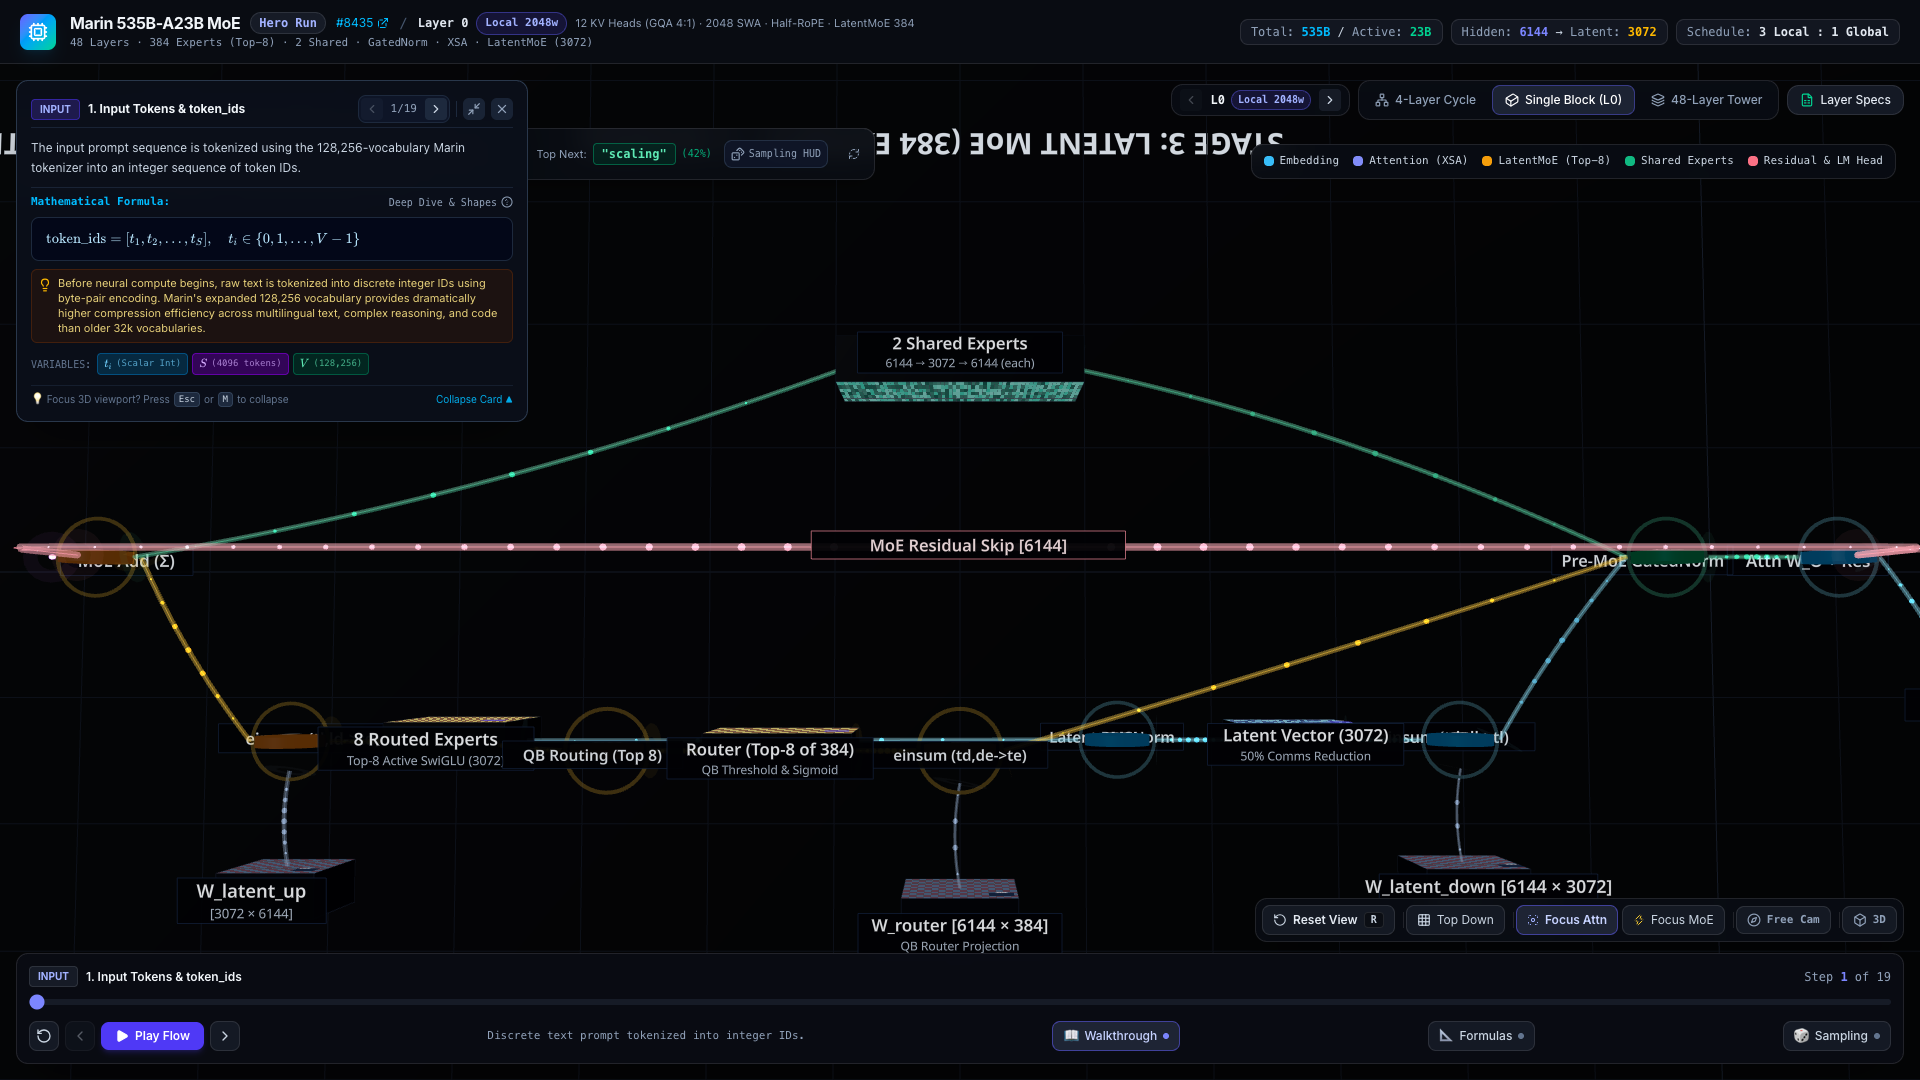
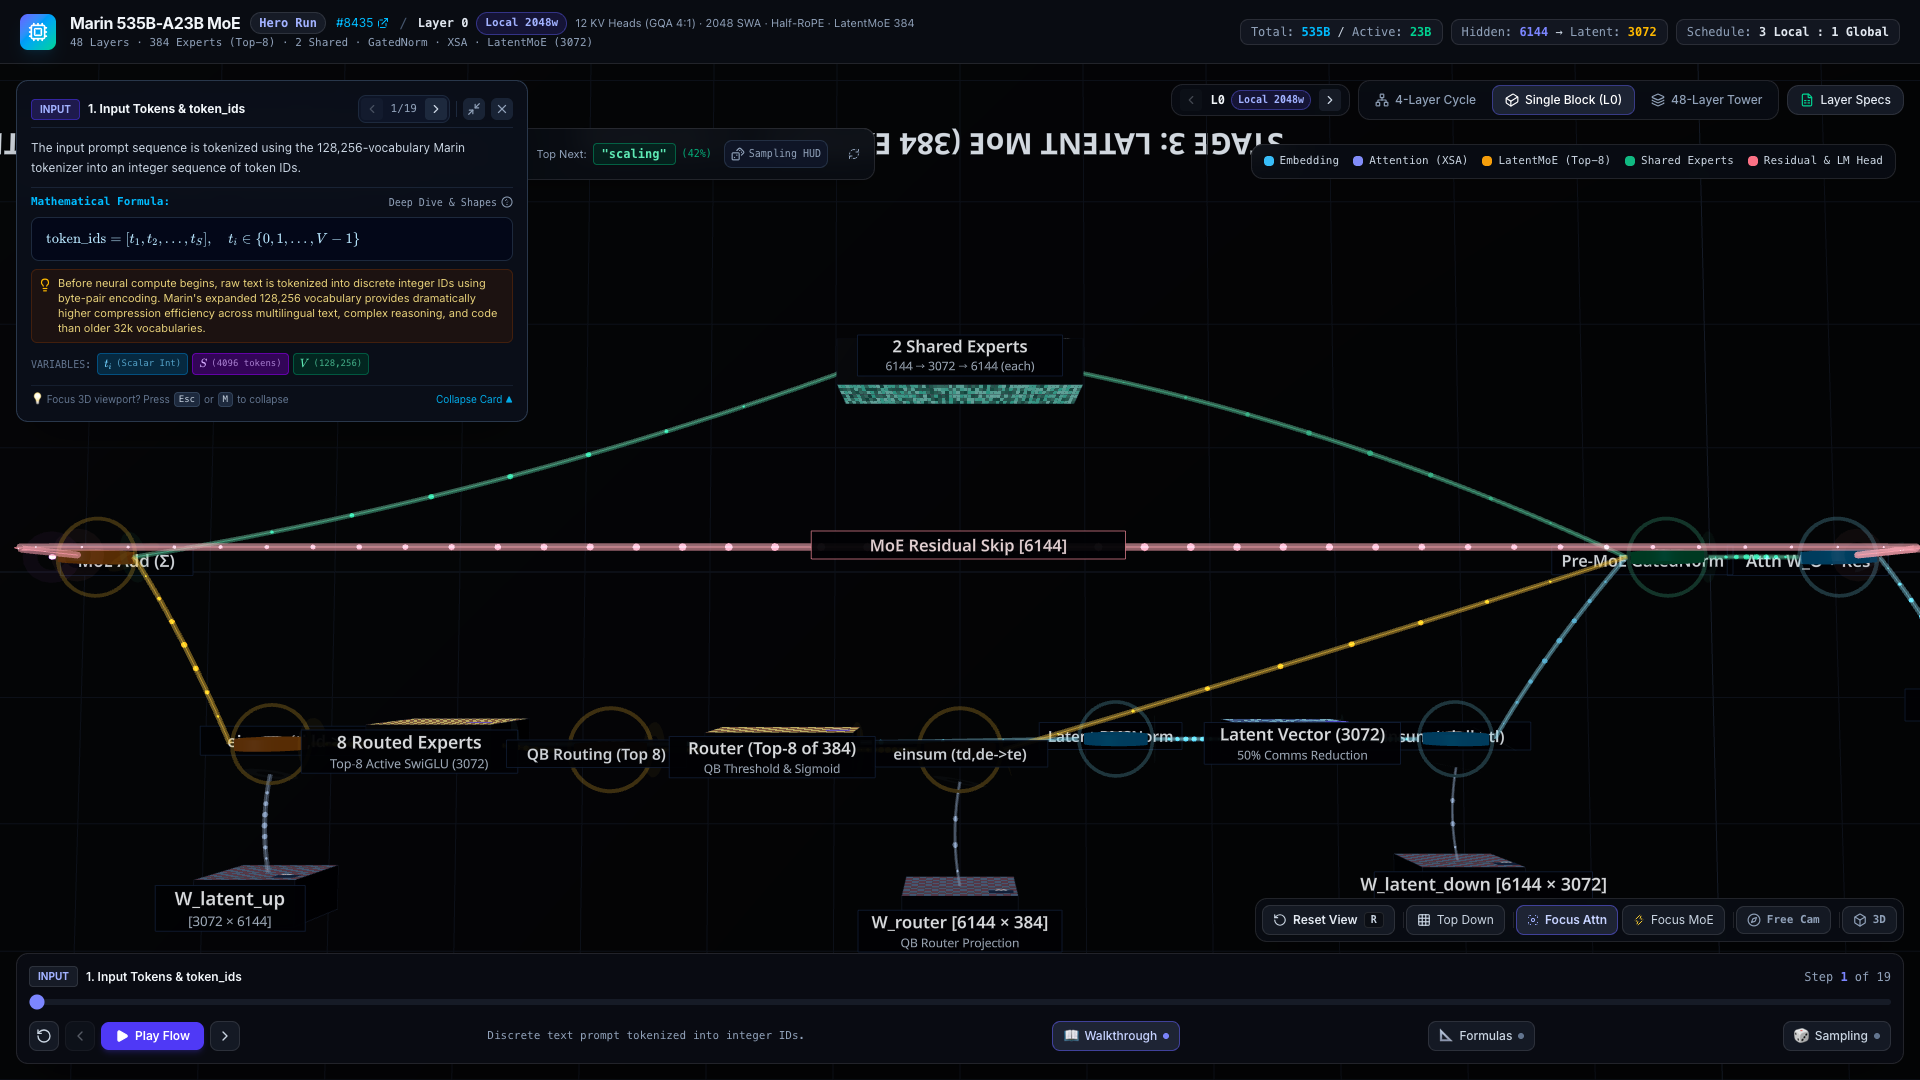
refactor: apply Plan A classic mirror-symmetric MoE layout

diff --git a/src/components/ThreeScene/MicroBlockView.tsx b/src/components/ThreeScene/MicroBlockView.tsx
@@ -690,7 +690,7 @@ export const MicroBlockView: React.FC<MicroBlockViewProps> = ({
       {/* Token to op_router_proj */}
       <FlowConnection
         from={[16.05, 2.0, 0]}
-        to={[24.45, 3.4, -2.5]}
+        to={[24.45, 3.2, -2.5]}
         color="#f59e0b"
         isHighlighted={isFlowActive(isStep('router_qb_selection'), ['op_moe_gn', 'op_router_proj'])}
         label="Token [6144]"
@@ -701,7 +701,7 @@ export const MicroBlockView: React.FC<MicroBlockViewProps> = ({
         id="node_w_router"
         label="W_router [6144 × 384]"
         subLabel="QB Router Projection"
-        position={[25.0, 3.4, -4.5]}
+        position={[25.0, 3.2, -4.5]}
         size={[1.4, 1.6, 0.6]}
         gridRows={12}
         gridCols={16}
@@ -716,8 +716,8 @@ export const MicroBlockView: React.FC<MicroBlockViewProps> = ({
 
       {/* W_router -> op_router_proj */}
       <FlowConnection
-        from={[25.0, 3.4, -4.2]}
-        to={[25.0, 3.4, -2.9]}
+        from={[25.0, 3.2, -4.2]}
+        to={[25.0, 3.2, -2.9]}
         color="#64748b"
         tubeRadius={0.02}
         particleCount={4}
@@ -730,7 +730,7 @@ export const MicroBlockView: React.FC<MicroBlockViewProps> = ({
         id="op_router_proj"
         name="einsum (td,de->te)"
         symbol="@"
-        position={[25.0, 3.4, -2.5]}
+        position={[25.0, 3.2, -2.5]}
         color="#f59e0b"
         isHighlighted={isHighlighted('op_router_proj') || isHighlighted('node_w_router')}
         onHover={onHoverItem}
@@ -740,8 +740,8 @@ export const MicroBlockView: React.FC<MicroBlockViewProps> = ({
 
       {/* op_router_proj -> node_router */}
       <FlowConnection
-        from={[25.55, 3.4, -2.5]}
-        to={[26.3, 3.4, -2.5]}
+        from={[25.55, 3.2, -2.5]}
+        to={[26.3, 3.2, -2.5]}
         color="#f59e0b"
         isHighlighted={isFlowActive(isStep('router_qb_selection'), ['op_router_proj', 'node_router'])}
         label="Logits [384]"
@@ -752,7 +752,7 @@ export const MicroBlockView: React.FC<MicroBlockViewProps> = ({
         id="node_router"
         label="Router (Top-8 of 384)"
         subLabel="QB Threshold & Sigmoid"
-        position={[27.2, 3.4, -2.5]}
+        position={[27.2, 3.2, -2.5]}
         size={[1.8, 1.4, 0.5]}
         gridRows={activationData.tokens.length}
         gridCols={16}
@@ -766,8 +766,8 @@ export const MicroBlockView: React.FC<MicroBlockViewProps> = ({
 
       {/* node_router -> op_router_qb */}
       <FlowConnection
-        from={[28.1, 3.4, -2.5]}
-        to={[28.85, 3.4, -2.5]}
+        from={[28.1, 3.2, -2.5]}
+        to={[28.85, 3.2, -2.5]}
         color="#f59e0b"
         isHighlighted={isFlowActive(isStep('router_qb_selection'), ['node_router', 'op_router_qb'])}
       />
@@ -777,7 +777,7 @@ export const MicroBlockView: React.FC<MicroBlockViewProps> = ({
         id="op_router_qb"
         name="QB Routing (Top 8)"
         symbol="QB"
-        position={[29.4, 3.4, -2.5]}
+        position={[29.4, 3.2, -2.5]}
         color="#f59e0b"
         isHighlighted={isHighlighted('op_router_qb')}
         onHover={onHoverItem}
@@ -790,7 +790,7 @@ export const MicroBlockView: React.FC<MicroBlockViewProps> = ({
         id="node_experts_shared"
         label="2 Shared Experts"
         subLabel="6144 → 3072 → 6144 (each)"
-        position={[25.0, 2.2, 2.5]}
+        position={[25.0, 2.0, 2.5]}
         size={[64 * DIM_W, 1.6, 0.6]}
         gridRows={activationData.tokens.length}
         gridCols={64}
@@ -806,7 +806,7 @@ export const MicroBlockView: React.FC<MicroBlockViewProps> = ({
       {/* Full-Width mlp_in into 2 Shared Experts */}
       <FlowConnection
         from={[16.05, 2.0, 0]}
-        to={[23.4, 2.2, 2.5]}
+        to={[23.4, 2.0, 2.5]}
         color="#10b981"
         isHighlighted={isFlowActive(isStep('shared_experts_swiglu'), ['op_moe_gn', 'node_experts_shared'])}
         label="Full Width [6144]"
@@ -816,7 +816,7 @@ export const MicroBlockView: React.FC<MicroBlockViewProps> = ({
       {/* Branch to Latent Down (Token -> op_latent_proj) */}
       <FlowConnection
         from={[16.05, 2.0, 0]}
-        to={[17.45, 1.0, -2.5]}
+        to={[17.45, 0.8, -2.5]}
         color="#38bdf8"
         isHighlighted={isFlowActive(isStep('latent_compression'), ['op_moe_gn', 'op_latent_proj'])}
         label="Token [6144]"
@@ -827,7 +827,7 @@ export const MicroBlockView: React.FC<MicroBlockViewProps> = ({
         id="node_w_latent_down"
         label="W_latent_down [6144 × 3072]"
         subLabel="Compression Matrix"
-        position={[18.0, 1.0, -4.5]}
+        position={[18.0, 0.8, -4.5]}
         size={[1.4, 1.4, 0.6]}
         gridRows={12}
         gridCols={12}
@@ -842,8 +842,8 @@ export const MicroBlockView: React.FC<MicroBlockViewProps> = ({
 
       {/* W_down -> op_latent_proj */}
       <FlowConnection
-        from={[18.0, 1.0, -4.2]}
-        to={[18.0, 1.0, -2.9]}
+        from={[18.0, 0.8, -4.2]}
+        to={[18.0, 0.8, -2.9]}
         color="#64748b"
         tubeRadius={0.02}
         particleCount={4}
@@ -856,7 +856,7 @@ export const MicroBlockView: React.FC<MicroBlockViewProps> = ({
         id="op_latent_proj"
         name="einsum (td,dl->tl)"
         symbol="@"
-        position={[18.0, 1.0, -2.5]}
+        position={[18.0, 0.8, -2.5]}
         color="#38bdf8"
         isHighlighted={isHighlighted('op_latent_proj') || isHighlighted('node_w_latent_down')}
         onHover={onHoverItem}
@@ -866,8 +866,8 @@ export const MicroBlockView: React.FC<MicroBlockViewProps> = ({
 
       {/* op_latent_proj -> node_latent_down */}
       <FlowConnection
-        from={[18.55, 1.0, -2.5]}
-        to={[19.6, 1.0, -2.5]}
+        from={[18.55, 0.8, -2.5]}
+        to={[19.6, 0.8, -2.5]}
         color="#38bdf8"
         isHighlighted={isFlowActive(isStep('latent_compression'), ['op_latent_proj', 'node_latent_down'])}
         label="Latent [3072]"
@@ -878,7 +878,7 @@ export const MicroBlockView: React.FC<MicroBlockViewProps> = ({
         id="node_latent_down"
         label="Latent Vector (3072)"
         subLabel="50% Comms Reduction"
-        position={[20.4, 1.0, -2.5]}
+        position={[20.4, 0.8, -2.5]}
         size={[32 * DIM_W, 1.4, 0.5]}
         gridRows={activationData.tokens.length}
         gridCols={32}
@@ -893,8 +893,8 @@ export const MicroBlockView: React.FC<MicroBlockViewProps> = ({
 
       {/* Latent Down to Latent RMSNorm */}
       <FlowConnection
-        from={[21.2, 1.0, -2.5]}
-        to={[22.25, 1.0, -2.5]}
+        from={[21.2, 0.8, -2.5]}
+        to={[22.25, 0.8, -2.5]}
         color="#38bdf8"
         isHighlighted={isFlowActive(isStep('latent_compression'), ['node_latent_down', 'op_latent_norm'])}
       />
@@ -904,7 +904,7 @@ export const MicroBlockView: React.FC<MicroBlockViewProps> = ({
         id="op_latent_norm"
         name="Latent RMSNorm"
         symbol="LN"
-        position={[22.8, 1.0, -2.5]}
+        position={[22.8, 0.8, -2.5]}
         color="#38bdf8"
         isHighlighted={isHighlighted('op_latent_norm')}
         onHover={onHoverItem}
@@ -924,8 +924,8 @@ export const MicroBlockView: React.FC<MicroBlockViewProps> = ({
 
       {/* Latent RMSNorm into 8 Routed Experts */}
       <FlowConnection
-        from={[23.35, 1.0, -2.5]}
-        to={[31.0, 1.2, -2.5]}
+        from={[23.35, 0.8, -2.5]}
+        to={[31.0, 2.0, -2.5]}
         color="#38bdf8"
         isHighlighted={isFlowActive(isStep('routed_experts_swiglu'), ['op_latent_norm', 'node_experts_routed'])}
         label="Normed [3072]"
@@ -936,7 +936,7 @@ export const MicroBlockView: React.FC<MicroBlockViewProps> = ({
         id="node_experts_routed"
         label="8 Routed Experts"
         subLabel="Top-8 Active SwiGLU (3072)"
-        position={[31.8, 1.4, -2.5]}
+        position={[31.8, 2.0, -2.5]}
         size={[32 * DIM_W, 1.8, 0.6]}
         gridRows={8}
         gridCols={32}
@@ -950,8 +950,8 @@ export const MicroBlockView: React.FC<MicroBlockViewProps> = ({
 
       {/* Routed Experts → Latent Up Proj */}
       <FlowConnection
-        from={[32.6, 1.4, -2.5]}
-        to={[33.65, 1.4, -2.5]}
+        from={[32.6, 2.0, -2.5]}
+        to={[33.65, 2.0, -2.5]}
         color="#f59e0b"
         isHighlighted={isFlowActive(isStep('routed_experts_swiglu') || isStep('moe_aggregation_residual'), ['node_experts_routed', 'op_latent_up_proj'])}
         label="Routed [3072]"
@@ -962,7 +962,7 @@ export const MicroBlockView: React.FC<MicroBlockViewProps> = ({
         id="node_w_latent_up"
         label="W_latent_up"
         subLabel="[3072 × 6144]"
-        position={[34.2, 1.4, -4.5]}
+        position={[34.2, 2.0, -4.5]}
         size={[1.3, 1.4, 0.6]}
         gridRows={12}
         gridCols={12}
@@ -980,7 +980,7 @@ export const MicroBlockView: React.FC<MicroBlockViewProps> = ({
         id="op_latent_up_proj"
         name="einsum (tl,ld->td)"
         symbol="@"
-        position={[34.2, 1.4, -2.5]}
+        position={[34.2, 2.0, -2.5]}
         color="#f59e0b"
         isHighlighted={isHighlighted('op_latent_up_proj') || isHighlighted('node_w_latent_up')}
         onHover={onHoverItem}
@@ -990,8 +990,8 @@ export const MicroBlockView: React.FC<MicroBlockViewProps> = ({
 
       {/* W_latent_up Weight into Latent Up Proj */}
       <FlowConnection
-        from={[34.2, 1.4, -4.2]}
-        to={[34.2, 1.4, -2.9]}
+        from={[34.2, 2.0, -4.2]}
+        to={[34.2, 2.0, -2.9]}
         color="#64748b"
         isHighlighted={isFlowActive(isStep('moe_aggregation_residual'), ['node_w_latent_up', 'op_latent_up_proj'])}
         label="W_up"
@@ -999,8 +999,8 @@ export const MicroBlockView: React.FC<MicroBlockViewProps> = ({
 
       {/* Up-projection Output → MoE Merge */}
       <FlowConnection
-        from={[34.75, 1.4, -2.5]}
-        to={[36.1, 1.8, 0]}
+        from={[34.75, 2.0, -2.5]}
+        to={[36.1, 2.0, 0]}
         color="#f59e0b"
         tubeRadius={0.035}
         particleCount={8}
@@ -1010,7 +1010,7 @@ export const MicroBlockView: React.FC<MicroBlockViewProps> = ({
 
       {/* Shared Experts to MoE Add */}
       <FlowConnection
-        from={[26.6, 2.2, 2.5]}
+        from={[26.6, 2.0, 2.5]}
         to={[36.1, 2.0, 0]}
         color="#10b981"
         isHighlighted={isFlowActive(isStep('shared_experts_swiglu') || isStep('moe_aggregation_residual'), ['node_experts_shared', 'op_moe_add'])}

diff --git a/src/data/stepDefinitions.ts b/src/data/stepDefinitions.ts
@@ -206,7 +206,7 @@ const RAW_FORWARD_STEPS: Omit<ForwardStep, 'formulaData'>[] = [
     realShape: 'Logits: [4096, 384], Selected: [4096, 8]',
     visualShape: 'Logits: [6, 24], Selected: [6, 8]',
     hardwareSignificance: 'QB (Quantile Balancing) dynamically balances load across GPU nodes without intrusive auxiliary balance loss penalties.',
-    cameraFocus: [27.2, 3.4, -2.5],
+    cameraFocus: [27.2, 3.2, -2.5],
     cameraPos: [27.0, 7.0, 5.0],
     activeNodeIds: ['op_router_proj', 'node_w_router', 'node_router', 'op_router_qb'],
   },
@@ -222,7 +222,7 @@ const RAW_FORWARD_STEPS: Omit<ForwardStep, 'formulaData'>[] = [
     realShape: '[1, 4096, 3072]',
     visualShape: '[1, 6, 32]',
     hardwareSignificance: 'Cuts EP all-to-all cross-node network bandwidth in HALF (150 GB/s -> 75 GB/s), preventing network bottlenecks on 11-rack clusters.',
-    cameraFocus: [20.4, 1.0, -2.5],
+    cameraFocus: [20.4, 0.8, -2.5],
     cameraPos: [22.0, 5.0, 4.0],
     activeNodeIds: ['op_latent_proj', 'node_w_latent_down', 'node_latent_down', 'op_latent_norm'],
   },
@@ -238,7 +238,7 @@ const RAW_FORWARD_STEPS: Omit<ForwardStep, 'formulaData'>[] = [
     realShape: '8 experts x [3072, 3072]',
     visualShape: '8 active tiles x [16, 16]',
     hardwareSignificance: 'Half-width experts (hidden/2) maximize parameter diversity across the 384-expert pool while keeping memory within HBM budgets.',
-    cameraFocus: [31.8, 3.0, -2.5],
+    cameraFocus: [31.8, 2.0, -2.5],
     cameraPos: [31.0, 7.0, 4.5],
     activeNodeIds: ['node_experts_routed'],
   },
@@ -254,7 +254,7 @@ const RAW_FORWARD_STEPS: Omit<ForwardStep, 'formulaData'>[] = [
     realShape: '2 x [6144 -> 3072 -> 6144]',
     visualShape: '2 x [64 -> 32 -> 64]',
     hardwareSignificance: 'Ensures fundamental syntactic & reasoning patterns are shared across all tokens without occupying routing capacity.',
-    cameraFocus: [25.0, 4.2, 2.5],
+    cameraFocus: [25.0, 2.0, 2.5],
     cameraPos: [19.0, 8.0, 9.5],
     activeNodeIds: ['node_experts_shared'],
   },
@@ -270,7 +270,7 @@ const RAW_FORWARD_STEPS: Omit<ForwardStep, 'formulaData'>[] = [
     realShape: '[1, 4096, 6144]',
     visualShape: '[1, 6, 64]',
     hardwareSignificance: 'Completes the dual-path MoE computation for this block. Both paths fuse cleanly into the residual highway.',
-    cameraFocus: [34.2, 4.0, 0],
+    cameraFocus: [34.2, 2.0, 0],
     cameraPos: [35.0, 8.0, 9],
     activeNodeIds: ['node_moe_res', 'op_moe_add'],
   },
